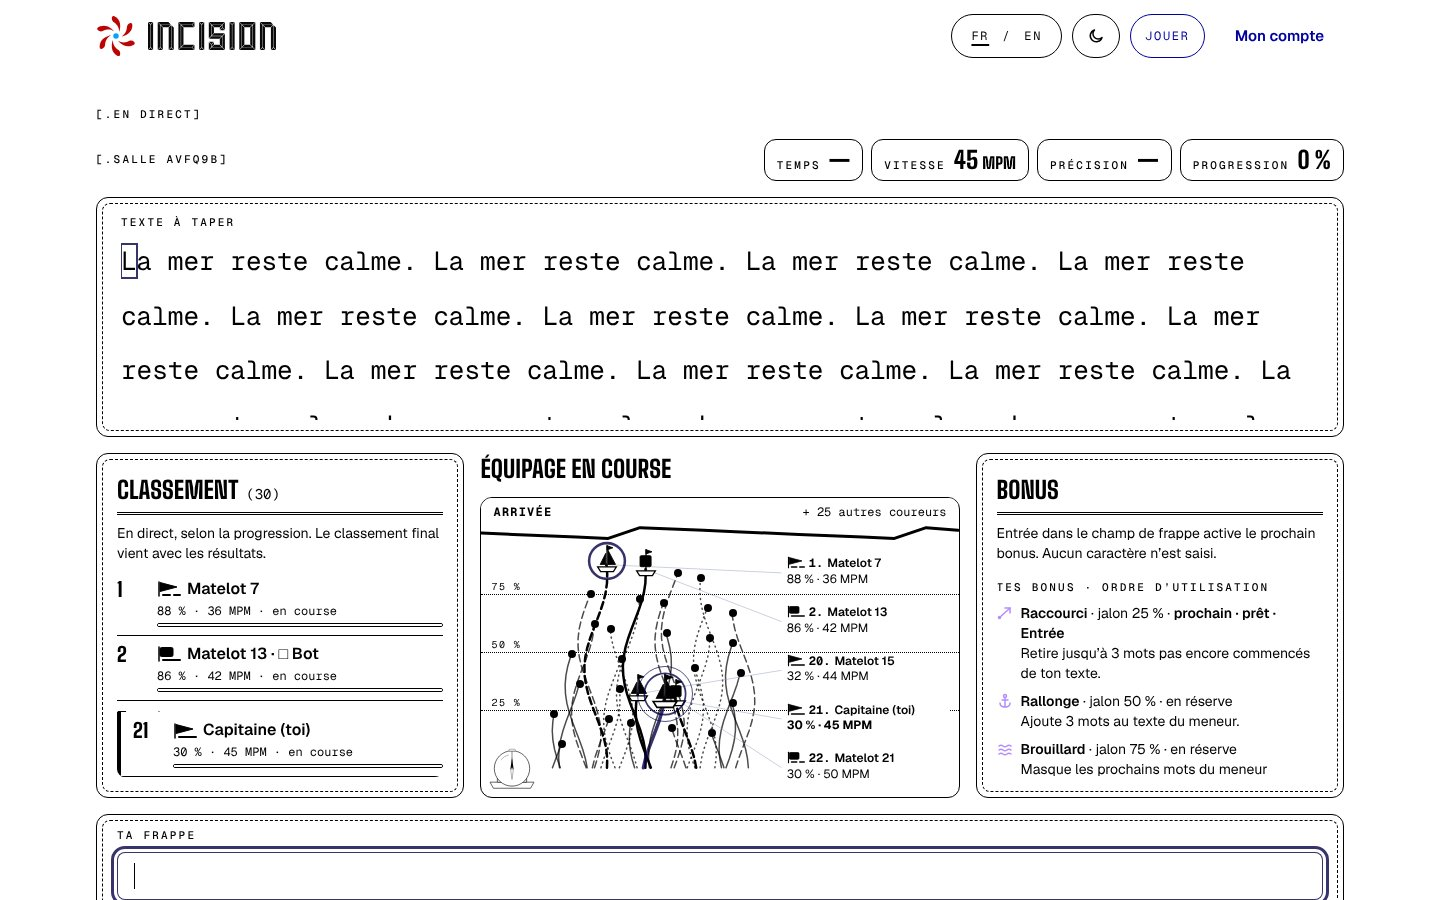
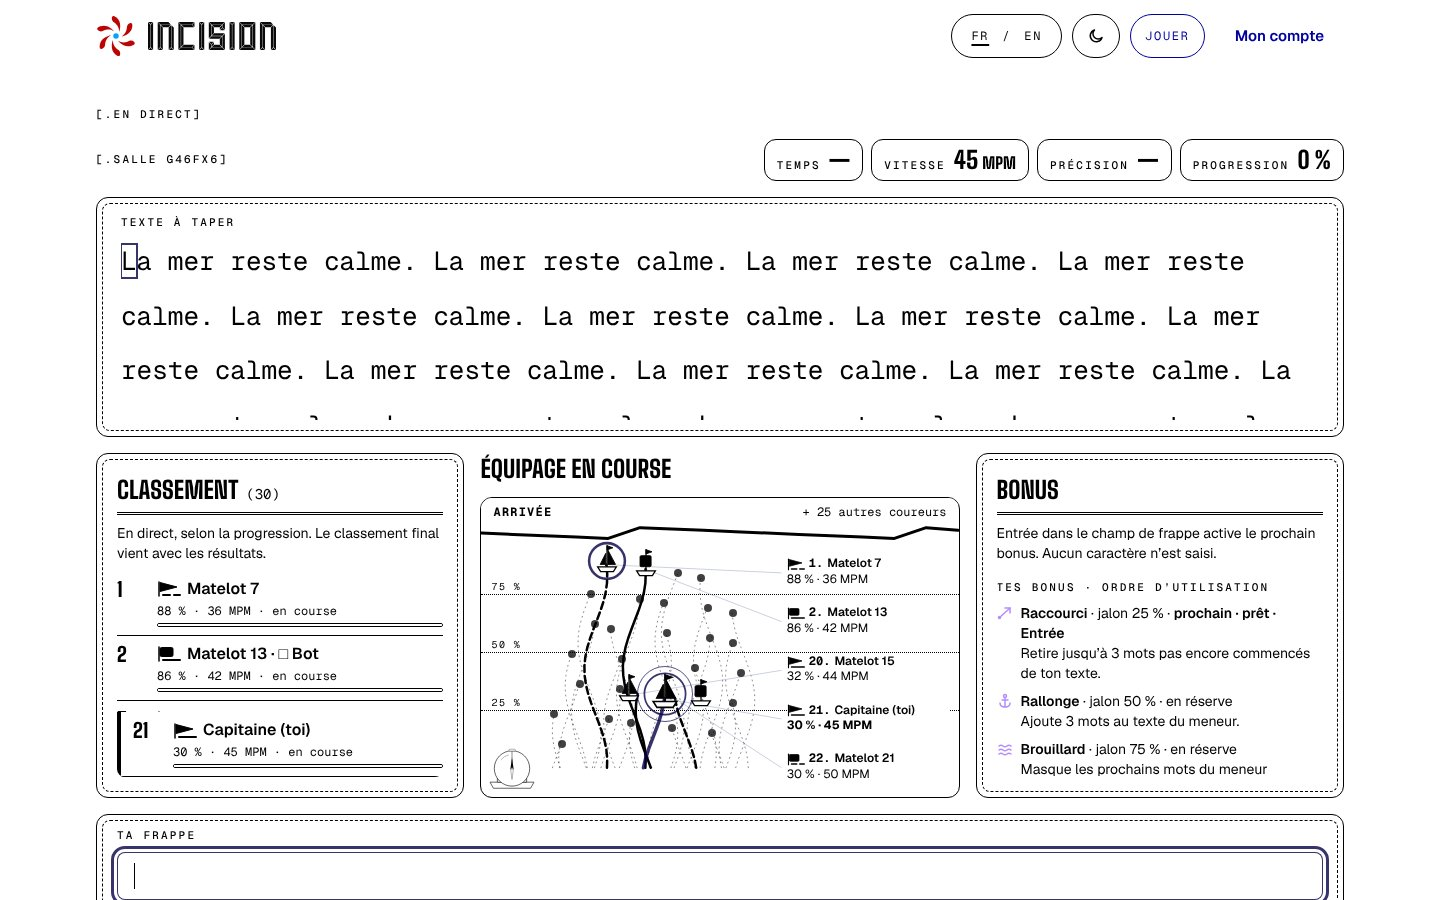
feat(races): grey unnamed runners, ships side by side, uncut « (toi) »
Asked by Philippe on 18 November, after the first captures:
- A runner without a name on the chart is a grey dot on one faint dotted
  route, as the mock-up draws it; its colour and dash stay on its
  standings pennant and show on the chart once it is named.
- A named ship that would sail under another is drawn beside its marker
  (mine never moves); marker, route and connector keep the broadcast's
  position.
- A long name is shortened before « (toi) », never across it.

race-track.spec.ts: the five colours and thirteen colour x dash pairs are
now read on the standings pennants; the three-way match applies to named
runners, and every unnamed runner shares one grey route style.

Claude-Session: https://claude.ai/code/session_01FBFqZL8NQL9Yzz1qyg8vKZ

Changed region(s): [[0.375, 0.6533, 0.5625, 0.84], [0.125, 0.1556, 0.1562, 0.1867]]

diff --git a/apps/web/e2e/race-track.spec.ts b/apps/web/e2e/race-track.spec.ts
@@ -77,12 +77,21 @@ for (const [locale, theme] of [["fr-CA", "aube"], ["fr-CA", "abysse"], ["en-US",
     const colours = await track.locator("[data-runner]").evaluateAll(markers => markers.map(marker => {
       const id = marker.getAttribute("data-runner")!;
       const route = marker.closest("[data-testid=race-track]")!.querySelector(`polyline[data-route="${id}"]`)!;
-      return { marker: getComputedStyle(marker).backgroundColor, route: getComputedStyle(route).stroke, self: marker.hasAttribute("data-self") };
+      return { marker: getComputedStyle(marker).backgroundColor, route: getComputedStyle(route).stroke, self: marker.hasAttribute("data-self"),
+        named: marker.querySelector("[data-ship]") !== null, dash: getComputedStyle(route).strokeDasharray,
+        pennant: getComputedStyle(document.querySelector(`[data-standing="${id}"] [data-pennant-cloth]`)!).fill };
     }));
     for (const colour of colours) expect(colour.route).toBe(colour.marker);
-    expect(new Set(colours.map(colour => colour.route)).size).toBe(5);
+    // The five runner colours: on every pennant of the standings (Philippe, 18 November: a runner
+    // without a name on the chart is drawn grey there, on one faint dotted route).
+    expect(new Set(colours.map(colour => colour.pennant)).size).toBe(5);
+    const unnamed = colours.filter(colour => !colour.named);
+    expect(unnamed.length).toBe(count - colours.filter(colour => colour.named).length);
+    expect(new Set(unnamed.map(colour => `${colour.route}/${colour.dash}`)).size).toBe(1);
     const mine = colours.find(colour => colour.self)!;
+    expect(mine.named).toBe(true);
     expect(colours.filter(colour => colour.route === mine.route)).toHaveLength(1);
+    expect(colours.filter(colour => colour.pennant === mine.pennant)).toHaveLength(1);
     // Three-way match (DA2-2): a runner's sail, route and pennant share one colour and one dash,
     // and the sail and the pennant share the shape of its kind (triangle: human, square: bot).
     const crew = await page.evaluate(() => [...document.querySelectorAll("[data-testid=race-track] [data-runner]")].map(marker => {
@@ -101,10 +110,13 @@ for (const [locale, theme] of [["fr-CA", "aube"], ["fr-CA", "abysse"], ["en-US",
     expect(crew).toHaveLength(count);
     for (const runner of crew) {
       const shape = runner.kind === "bot" ? "square" : "triangle";
-      // Every runner has a pennant in the standings: its route's colour and dash, its kind's shape.
-      expect(runner.standing, runner.id).toEqual({ shape, cloth: runner.route.stroke, wake: runner.route.stroke, dash: runner.route.dash });
-      // A named runner sails a ship: the same colour on the sail, the same pennant beside the name.
+      // Every runner has a pennant in the standings: one colour for cloth and line, its kind's shape.
+      expect(runner.standing!.shape, runner.id).toBe(shape);
+      expect(runner.standing!.wake, runner.id).toBe(runner.standing!.cloth);
+      // A named runner sails a ship: sail, route and pennant in one colour and one dash, and the
+      // same pennant beside its name on the chart.
       if (runner.ship) {
+        expect(runner.standing, runner.id).toEqual({ shape, cloth: runner.route.stroke, wake: runner.route.stroke, dash: runner.route.dash });
         expect(runner.ship.sail, runner.id).toBe(runner.route.stroke);
         expect(runner.ship.shape, runner.id).toBe(shape);
         expect(runner.label, runner.id).toEqual(runner.standing);
@@ -121,8 +133,8 @@ for (const [locale, theme] of [["fr-CA", "aube"], ["fr-CA", "abysse"], ["en-US",
     expect(otherRings.every(rings => rings === 0 || rings === 1)).toBe(true);
     expect(otherRings.filter(rings => rings === 1).length).toBeLessThanOrEqual(1);
     // Colour is never alone: the four shared colours each come solid, dashed and dotted.
-    expect(new Set(crew.map(runner => `${runner.route.stroke}/${runner.route.dash}`)).size).toBe(13);
-    expect(new Set(crew.map(runner => runner.route.dash)).size).toBe(3);
+    expect(new Set(crew.map(runner => `${runner.standing!.cloth}/${runner.standing!.dash}`)).size).toBe(13);
+    expect(new Set(crew.map(runner => runner.standing!.dash)).size).toBe(3);
     // The finish is the coast, with its word; the compass sits on the track, under the text sheet.
     await expect(track.locator("[data-coast]:visible")).toHaveCount(1);
     await expect(track.locator("[data-coast]:visible")).toHaveAttribute("data-coast", "horizontal");

diff --git a/apps/web/src/components/races/race-track.tsx b/apps/web/src/components/races/race-track.tsx
@@ -16,7 +16,8 @@ import styles from "./race-track.module.css";
  * track is decorative for assistive technology: the standings panel beside it lists every runner.
  *
  * Art direction C1 « Cap »: a named runner is a ship (triangle sail for a human, square for a bot)
- * whose sail, route and pennant share one colour and one dash; the others stay dots. The finish
+ * whose sail, route and pennant share one colour and one dash; the others stay dots, grey on a
+ * faint route, so that the named ones stand out in a large crew. The finish
  * is the red coast, with its word; a glass compass sits in the corner furthest from the text.
  */
 export const RaceTrack = memo(function RaceTrack({ entrants, progress, selfId, t, locale }: {
@@ -68,16 +69,16 @@ export const RaceTrack = memo(function RaceTrack({ entrants, progress, selfId, t
         const leader = point.tone === "leader";
         const position = { "--point-x": `${point.x}%`, "--point-y": `${point.y}%`, "--label-y": `${point.labelY}%`,
           "--horizontal-x": `${point.horizontalX}%`, "--horizontal-y": `${point.horizontalY}%`,
-          "--horizontal-label-x": `${Math.max(2, Math.min(60, point.horizontalX - 5))}%` } as CSSProperties;
+          "--horizontal-label-x": `${Math.max(2, Math.min(60, point.horizontalX - 5))}%`, "--ship-shift": point.shipShift } as CSSProperties;
         return <div key={runner.entrantId}>
           {/* The marker is the runner's real position: a dot, or the foot of a named runner's ship. */}
           <span data-runner={runner.entrantId} data-self={point.self || undefined} data-kind={runner.kind} data-position={runner.position}
             data-route-colour={point.route.colour} data-route-dash={point.route.dash} style={position}
-            className={`${styles.point} ${point.labelled ? styles.named : ""} ${styles[point.route.colour]} ${point.self ? styles.self : ""} ${leader ? styles.leader : ""} ${runner.kind === "bot" ? styles.bot : ""}`}>
+            className={`${styles.point} ${point.labelled ? `${styles.named} ${styles[point.route.colour]}` : styles.anon} ${point.self ? styles.self : ""} ${leader ? styles.leader : ""} ${runner.kind === "bot" ? styles.bot : ""}`}>
             {point.labelled && <Ship kind={runner.kind} colour={point.route.colour} self={point.self} leader={leader} className={styles.ship} />}
           </span>
           {point.labelled && <span data-track-label style={position} className={`${styles.label} ${point.self ? styles.selfLabel : ""} ${leader ? styles.leaderLabel : ""}`}>
-            <span className={styles.labelName}><Pennant kind={runner.kind} colour={point.route.colour} dash={point.route.dash} className={styles.pennant} /><span className={styles.rank}>{rank}</span>{name}{point.self ? ` (${t.you})` : ""}</span>
+            <span className={styles.labelName}><Pennant kind={runner.kind} colour={point.route.colour} dash={point.route.dash} className={styles.pennant} /><span className={styles.rank}>{rank}</span><span className={styles.nameText}>{name}</span>{point.self && <span data-track-you className={styles.you}> ({t.you})</span>}</span>
             {/* Two lines at most; the standings say the rest in full. */}
             <span className={styles.labelName}>
               {formatProgress(runner.position, runner.length, locale)} · {formatWpm(runner.netWpm, locale)} {t.wpm}
@@ -95,5 +96,8 @@ export const RaceTrack = memo(function RaceTrack({ entrants, progress, selfId, t
 });
 
 function routeClass(point: TrackPoint): string {
-  return `${styles[point.route.colour]} ${styles[point.route.dash]} ${point.self ? styles.selfRoute : point.labelled ? styles.namedRoute : ""}`;
+  // A runner without a name on the chart sails a faint grey dotted route; its own colour and dash
+  // show as soon as it is named, and always on its pennant in the standings.
+  if (!point.labelled) return styles.anonRoute ?? "";
+  return `${styles[point.route.colour]} ${styles[point.route.dash]} ${point.self ? styles.selfRoute : styles.namedRoute}`;
 }

diff --git a/apps/web/src/components/races/track-layout.ts b/apps/web/src/components/races/track-layout.ts
@@ -11,6 +11,11 @@ export type TrackPoint = {
   readonly horizontalX: number;
   readonly horizontalY: number;
   readonly labelY: number;
+  /**
+   * Sideways offset of a named runner's ship, in % of the chart's width (vertical chart only): 0
+   * unless it would sail under another ship. Drawing only: the marker stays on the real position.
+   */
+  readonly shipShift: number;
   /** The runner's stable sea route, the same on every refresh of the round (see `routeStyle`). */
   readonly route: RouteStyle;
   /** The route from the start to the runner's real progress, in the track's 0–100 boxes. */
@@ -95,6 +100,35 @@ export const LABEL_TOP = 25;
 export const LABEL_BOTTOM = 90;
 export const LABEL_GAP = 16.25;
 
+/** Two ships closer than this (in % of the chart's width and height) would cover one another. */
+export const SHIP_CLEAR_X = 7.5;
+export const SHIP_CLEAR_Y = 16;
+
+/**
+ * My neighbours ahead and behind are named because they are at my progress: their ships would
+ * often sail under mine. Mine never moves; each other named ship takes the nearest free berth
+ * beside its real position (its own side first), in a stable id order. Only the drawing shifts:
+ * the marker, the route and the connector keep the broadcast's position.
+ */
+function shipShifts(named: readonly { readonly runner: Runner; readonly self: boolean; readonly x: number; readonly y: number }[]): ReadonlyMap<string, number> {
+  const order = [...named].sort((a, b) => Number(b.self) - Number(a.self) || (a.runner.entrantId < b.runner.entrantId ? -1 : a.runner.entrantId > b.runner.entrantId ? 1 : 0));
+  const placed: { x: number; y: number }[] = [];
+  const shifts = new Map<string, number>();
+  for (const ship of order) {
+    const covered = (x: number) => placed.some((other) => Math.abs(other.x - x) < SHIP_CLEAR_X && Math.abs(other.y - ship.y) < SHIP_CLEAR_Y);
+    const blocker = placed.find((other) => Math.abs(other.x - ship.x) < SHIP_CLEAR_X && Math.abs(other.y - ship.y) < SHIP_CLEAR_Y);
+    let x = ship.x;
+    if (blocker) {
+      const side = ship.x >= blocker.x ? 1 : -1;
+      const berths = [1, -1, 2, -2, 3, -3].map((step) => blocker.x + side * step * SHIP_CLEAR_X).filter((berth) => berth >= 4 && berth <= 60);
+      x = berths.find((berth) => !covered(berth)) ?? ship.x;
+    }
+    placed.push({ x, y: ship.y });
+    shifts.set(ship.runner.entrantId, round(x - ship.x));
+  }
+  return shifts;
+}
+
 /** Presentation only: progress proximity is NOT the engine's official finish ranking. */
 export function trackLayout(entrants: readonly Runner[], selfId: string | null): readonly TrackPoint[] {
   const ratio = (runner: Runner) => Number.isFinite(runner.position / runner.length) ? Math.max(0, Math.min(1, runner.position / runner.length)) : 0;
@@ -127,7 +161,7 @@ export function trackLayout(entrants: readonly Runner[], selfId: string | null):
       runner, self: id === selfId, labelled: labelled.has(id),
       tone: id === selfId ? "self" as const : id === leader ? "leader" as const :
         id === ahead ? "nearAhead" as const : id === behind ? "nearBehind" as const : "neutral" as const,
-      x, y, horizontalX, horizontalY, labelY: 0,
+      x, y, horizontalX, horizontalY, labelY: 0, shipShift: 0,
       route: routes.get(id)!,
       path: routePath(progress, vertical), horizontalPath: routePath(progress, horizontal),
     };
@@ -142,7 +176,8 @@ export function trackLayout(entrants: readonly Runner[], selfId: string | null):
   }
   const labelPositions = new Map(labels.map((point, i) => [point.runner.entrantId, positions[i]!]));
   // Markers stay at the end of their own route: never moved aside for a label.
-  return raw.map((point) => ({ ...point, labelY: labelPositions.get(point.runner.entrantId) ?? point.y }));
+  const shifts = shipShifts(raw.filter((point) => point.labelled));
+  return raw.map((point) => ({ ...point, labelY: labelPositions.get(point.runner.entrantId) ?? point.y, shipShift: shifts.get(point.runner.entrantId) ?? 0 }));
 }
 
 /**

diff --git a/apps/web/e2e/da2-race.spec.ts b/apps/web/e2e/da2-race.spec.ts
@@ -115,6 +115,12 @@ for (const item of cases) {
     // Along the top, the coastline never crosses the finish word or the others' count.
     if (!horizontal) expect(await track.evaluate(el => { const edge = el.querySelector("[data-coast]:not([data-coast=vertical]) [data-coast-edge]")!.getBoundingClientRect();
       return [...el.querySelectorAll(":scope > span")].filter(word => getComputedStyle(word).top === "6px").every(word => word.getBoundingClientRect().bottom <= edge.top + 1); })).toBe(true);
+    // No ship under another ship on the vertical chart: a covered one is drawn beside its marker.
+    if (!horizontal) for (const [i, hull] of boxes.ships.entries()) for (const other of boxes.ships.slice(i + 1)) expect(overlap(hull, other), "a hull over a hull").toBe(false);
+    // « (toi) » is never cut by a long name's ellipsis.
+    const you = await track.locator("[data-track-you]:visible").evaluateAll(marks => marks.map(mark => { const row = mark.parentElement!.getBoundingClientRect(); const at = mark.getBoundingClientRect();
+      return at.width > 0 && at.right <= row.right + 0.5; }));
+    expect(you).toEqual([true]);
     for (const [i, label] of boxes.labels.entries()) {
       for (const other of boxes.labels.slice(i + 1)) expect(overlap(label, other), "two names overlap").toBe(false);
       for (const compass of boxes.compass) expect(overlap(label, compass), "a name over the compass").toBe(false);
@@ -165,8 +171,10 @@ for (const theme of ["abysse", "aube"] as const) {
         marks[`pennant ${pennant.getAttribute("data-colour")} / panel`] = ratio(style("[data-pennant-cloth]", pennant).fill, list);
       }
       for (const route of track.querySelectorAll<SVGElement>("polyline[data-route]")) {
-        const colour = track.querySelector(`[data-runner="${route.dataset.route}"]`)!.getAttribute("data-route-colour");
-        marks[`route ${colour} / sea`] = ratio(getComputedStyle(route).stroke, sea);
+        const marker = track.querySelector(`[data-runner="${route.dataset.route}"]`)!;
+        // A named runner's route in its colour; an unnamed runner's dot in grey, at its own opacity.
+        if (marker.querySelector("[data-ship]")) marks[`route ${marker.getAttribute("data-route-colour")} / sea`] = ratio(getComputedStyle(route).stroke, sea);
+        else { const dot = getComputedStyle(marker); marks["unnamed dot / sea"] = ratio(dot.backgroundColor.replace(")", ` / ${dot.opacity})`).replace(/, /g, " "), sea); }
       }
       for (const ship of track.querySelectorAll("[data-ship]")) marks[`sail ${ship.getAttribute("data-colour")} / sea`] = ratio(style("[data-sail-cloth]", ship).fill, sea);
       marks["hull / sea"] = ratio(style("[data-ship] > path:last-of-type", track).fill, sea);

diff --git a/apps/web/src/components/races/race-track.module.css b/apps/web/src/components/races/race-track.module.css
@@ -11,6 +11,8 @@
   align-self: start;
 }
 .track {
+  /* Its own width as a unit (cqw), for a ship drawn beside its marker. */
+  container-type: inline-size;
   position: relative;
   height: 560px;
   overflow: hidden;
@@ -71,6 +73,8 @@
 .arcade { --route: var(--color-arcade); }
 .embrun { --route: var(--color-embrun); }
 .brume { --route: var(--color-brume); }
+/* Unnamed on the chart: grey, whatever the runner's colour (kept on its standings pennant). */
+.anon { --route: var(--color-brume); opacity: 0.75; }
 
 .routes {
   position: absolute;
@@ -93,6 +97,7 @@
 .selfRoute { stroke-width: 3.5px; opacity: 1; }
 .dashed { stroke-dasharray: 7 4; }
 .dotted { stroke-dasharray: 1 4; }
+.anonRoute { --route: var(--color-brume); stroke-width: 1px; opacity: 0.45; stroke-dasharray: 1 4; }
 .connector {
   stroke: var(--color-brume);
   stroke-width: 1px;
@@ -122,7 +127,8 @@
 .ship {
   --ship-size: 46px;
   position: absolute;
-  left: calc(var(--ship-size) / -2);
+  /* Beside its marker when it would sail under another ship (track-layout's `shipShift`). */
+  left: calc(var(--ship-size) / -2 + var(--ship-shift, 0) * 1cqw);
   /* The ship's foot (SHIP_ANCHOR: 31 / 54 of its box) on the marker. */
   top: calc(var(--ship-size) * -0.574);
   width: var(--ship-size);
@@ -140,7 +146,11 @@
   color: var(--color-ecume);
 }
 .labelName { display: block; overflow: hidden; text-overflow: ellipsis; white-space: nowrap; }
-.labelName:first-child { font-weight: 600; }
+/* The name's line: a long name is cut, never the « (toi) » after it. */
+.labelName:first-child { display: flex; align-items: center; font-weight: 600; }
+.labelName:first-child > * { flex: none; }
+.labelName:first-child > .nameText { flex: 0 1 auto; min-width: 0; overflow: hidden; text-overflow: ellipsis; }
+.you { white-space: pre; }
 .rank { margin-right: 4px; font-family: var(--font-mono); font-weight: 700; }
 .rank::after { content: "."; }
 .selfLabel { font-weight: 700; }
@@ -163,7 +173,7 @@
   .horizontalRoutes, .track .horizontalOnly { display: block; }
   .track { height: 180px; }
   .point { left: var(--horizontal-x); top: var(--horizontal-y); }
-  .ship { --ship-size: 36px; }
+  .ship { --ship-size: 36px; left: calc(var(--ship-size) / -2); }
   /* Only the two runners named on this chart sail a ship; the other named ones are dots again,
      as « + N » counts them. */
   .named:not(.self):not(.leader) { width: 8px; height: 8px; box-shadow: 0 0 0 1px var(--color-mer); }

diff --git a/apps/web/src/components/races/track-layout.test.ts b/apps/web/src/components/races/track-layout.test.ts
@@ -1,8 +1,32 @@
 import { describe, expect, it } from "vitest";
-import { LABEL_BOTTOM, LABEL_GAP, LABEL_TOP, ROUTE_COLOURS, routeStyles, standingsOrder, trackLayout } from "./track-layout";
+import { LABEL_BOTTOM, LABEL_GAP, LABEL_TOP, ROUTE_COLOURS, routeStyles, SHIP_CLEAR_X, SHIP_CLEAR_Y, standingsOrder, trackLayout } from "./track-layout";
 
 const runners = (count: number) => Array.from({ length: count }, (_, i) => ({ entrantId: `runner-${String(i).padStart(2, "0")}`, kind: i % 4 === 0 ? "bot" as const : "human" as const,
   status: "racing" as const, position: i * 2, length: 100, netWpm: 40 + i, inactive: false }));
+
+describe("named ships", () => {
+  it.each([2, 6, 30, 50])("never draws a ship under another among %i runners at the same progress, and never moves mine", count => {
+    for (const position of [0, 40, 100]) {
+      for (const self of [0, Math.floor(count / 2), count - 1]) {
+        const input = runners(count).map(r => ({ ...r, position }));
+        const points = trackLayout(input, input[self]!.entrantId);
+        const ships = points.filter(p => p.labelled).map(p => ({ x: p.x + p.shipShift, y: p.y, self: p.self, shift: p.shipShift }));
+        expect(ships.find(ship => ship.self)!.shift).toBe(0);
+        for (const [i, ship] of ships.entries()) {
+          expect(ship.x).toBeGreaterThanOrEqual(0); expect(ship.x).toBeLessThanOrEqual(62);
+          for (const other of ships.slice(i + 1)) expect(Math.abs(ship.x - other.x) >= SHIP_CLEAR_X - 0.01 || Math.abs(ship.y - other.y) >= SHIP_CLEAR_Y).toBe(true);
+        }
+        // The drawing alone shifts: every marker stays at the end of its own route.
+        for (const point of points) expect(Number(point.path.split(" ").at(-1)!.split(",")[0])).toBeCloseTo(point.x, 1);
+        expect(trackLayout([...input].reverse(), input[self]!.entrantId)).toEqual(points);
+      }
+    }
+  });
+  it("leaves a ship on its marker when nothing is near", () => {
+    const [a, b] = runners(2);
+    expect(trackLayout([{ ...a!, position: 10 }, { ...b!, position: 80 }], a!.entrantId).map(p => p.shipShift)).toEqual([0, 0]);
+  });
+});
 
 describe("track presentation layout", () => {
   it.each([2, 6, 30, 50])("keeps all %i runners, bounded positions and at most five non-overlapping labels", count => {

diff --git a/docs/evidence/da2-2-race-ships/README.md b/docs/evidence/da2-2-race-ships/README.md
@@ -32,6 +32,12 @@ File names: `course-<width>x<height>-<theme>-<language>-<runners>[-forced-colour
   it, as in the mock-up. The standings keep « · □ Bot » in words.
 - **Tablet chart**: only the two runners it names (me and the leader) sail a ship; the three
   other named runners are dots there, as its « + N autres coureurs » counts them.
+- **Unnamed runners** (my request of 18 November): on the chart they are grey dots on one faint
+  dotted route, as the mock-up draws them; their colour and dash stay on their standings pennant
+  and show on the chart as soon as they are named. `before-dev-*` shows them coloured.
+- **A ship that would sail under another** is drawn beside its marker (mine never moves); the
+  marker, the route and the connector keep the real position.
+- **« (toi) »** is never cut: a long name is shortened before it.
 - **Ships** are drawn at 85 % of the mock-up's size, so that they fit the shortest chart (12 rem).
 
 ## Contrast measured on the app (`race ships contrast`, 1440 × 900, 30 runners)
@@ -41,6 +47,7 @@ File names: `course-<width>x<height>-<theme>-<language>-<runners>[-forced-colour
 | Pennants on the standings panel (`embrun`, `juste`, `arcade`, `brume`, `moi`) | 12.17, 11.38, 7.13, 6.52, 10.96 | 12.87, 5.53, 6.65, 7.00, 5.00 |
 | Routes and sails on the sea (same five) | 11.53, 10.78, 6.75, 6.17, 10.38 | 10.75, 4.62, 5.55, 5.84, 4.17 |
 | Hull and compass line on the sea | 15.51 | 15.82 |
+| Unnamed dot (grey, 75 %) on the sea | 3.99 | 3.43 |
 | Coast edge on the sea | 4.35 | 4.78 |
 | Finish word on the land | 7.26 | 4.95 |
 | « + N autres coureurs » on the land | 10.85 | 9.20 |
